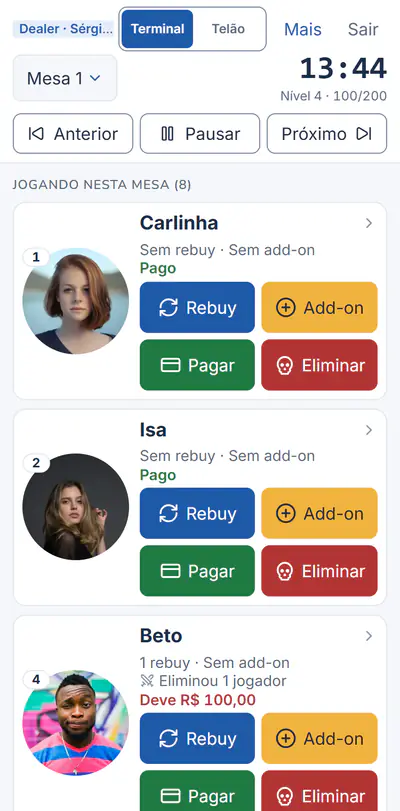
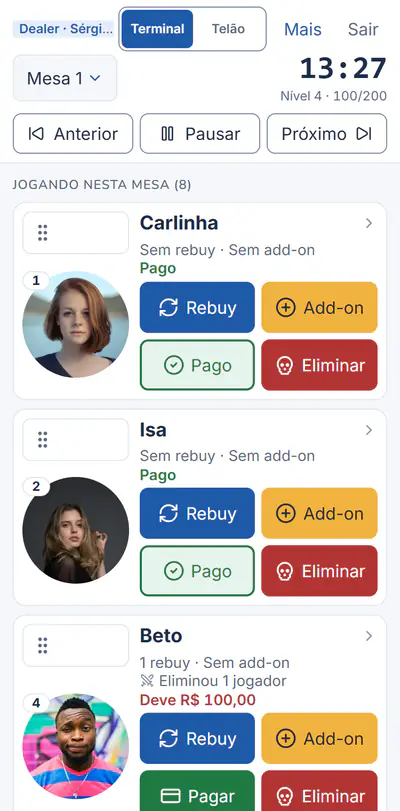
Manual: arrastar pela alça, "Pago", timebanks no telão e rebuy esquecido
- Passo novo "Troque jogadores de lugar arrastando" no terminal e print
  terminal-mesa refeito (a alça acima da foto)
- Passo novo "Quem já pagou: Pago" com o print terminal-pago (como foi pago)
- Dicas de rebuy/add-on fora do período (a pergunta "Lançar mesmo assim?")
  no terminal e em Limites de rebuy e add-on
- Telão: o relógio com os timebanks ao lado do nome (print tv-telao refeito)

diff --git a/src/pages/manual/manual.content.ts b/src/pages/manual/manual.content.ts
@@ -264,7 +264,7 @@ export const MANUAL_MODULES = [
           {
             title: 'Limites de rebuy e add-on',
             text: [
-              'Em Máx. de rebuys, diga quantos rebuys cada jogador pode fazer (0 = ilimitado) e, em Rebuy até o nível, até quando vale.',
+              'Em Máx. de rebuys, diga quantos rebuys cada jogador pode fazer (0 = ilimitado) e, em Rebuy até o nível, até quando vale. Passou do nível e alguém esqueceu um rebuy? Ele ainda pode ser lançado, com uma pergunta antes (veja Rebuy, no terminal).',
               'Com Permitir add-on marcado, Max add-ons diz quantos add-ons cada jogador pode comprar: 0 = ilimitado e o padrão é 1. O torneio herda esses limites da estrutura.',
             ],
             image: 'estrutura-addon',
@@ -426,7 +426,16 @@ export const MANUAL_MODULES = [
             ],
             tip: 'Mesas desequilibradas? O terminal avisa e sugere quem muda (Sortear quem muda ou Escolher eu mesmo).',
             image: 'terminal-mesa',
-            imageAlt: 'Terminal do dealer no celular: Terminal e Telão no topo, relógio, controles do nível e os cards dos jogadores da Mesa 1',
+            imageAlt: 'Terminal do dealer no celular: Terminal e Telão no topo, relógio, controles do nível e os cards dos jogadores da Mesa 1, cada um com a alça de arrastar acima da foto',
+          },
+          {
+            title: 'Troque jogadores de lugar arrastando',
+            text: [
+              'Acima da foto de cada jogador fica uma alça (os pontinhos). Ponha o dedo nela e arraste, sem precisar segurar: o card vai junto com o dedo e o jogador embaixo dele fica destacado em dourado.',
+              'Solte em cima de outro jogador da mesa e os dois trocam de lugar na hora, em todos os aparelhos. Soltou fora de um jogador? Nada muda. Tocar na alça sem arrastar não abre nada; o resto do card continua abrindo a Ficha.',
+            ],
+            tip: 'Para mudar alguém de mesa, use Mais › Mesas.',
+            feature: 'Tables',
           },
           {
             title: 'Inicie o torneio',
@@ -463,6 +472,7 @@ export const MANUAL_MODULES = [
               'Toque em Rebuy no card do jogador. A confirmação mostra a foto e o nome, para conferir que é a pessoa certa, e o valor.',
               'Confirme: o valor entra no que o jogador deve.',
             ],
+            tip: 'Esqueceu de lançar? Depois do Rebuy até o nível do torneio, ou com os rebuys encerrados no painel (Encerrar Rebuys), o terminal pergunta, por exemplo, O período de rebuy acabou no nível 6. Lançar mesmo assim? — toque em Sim, lançar e o Histórico marca o rebuy como fora do período. O máximo de rebuys de cada jogador continua valendo.',
             image: 'terminal-rebuy',
             imageAlt: 'Confirmação do rebuy com a foto redonda e o nome do jogador e o valor de R$ 50,00',
           },
@@ -472,6 +482,7 @@ export const MANUAL_MODULES = [
               'Toque em Add-on no card. A confirmação mostra a foto, quantos add-ons o jogador já comprou e o máximo do torneio (0 = sem limite, em Max add-ons).',
               'Quando cabe mais de um, escolha a quantidade com − e + antes de confirmar. Quem chegou ao máximo fica com o botão Add-on apagado.',
             ],
+            tip: 'Add-on esquecido depois do Encerrar Rebuys? A mesma pergunta aparece (Os add-ons já foram encerrados (intervalo de acerto). Lançar mesmo assim?) e o Sim, lançar lança, marcado no Histórico como fora do período.',
             image: 'terminal-addon',
             imageAlt: 'Confirmação do add-on com a foto redonda, Já comprou 0 de 2 add-ons, a quantidade 2 e Confirmar 2 add-ons por R$ 100,00',
           },
@@ -485,6 +496,17 @@ export const MANUAL_MODULES = [
             feature: 'Payments',
             image: 'terminal-pagar',
             imageAlt: 'Janela Registrar Pagamento com o jogador, os métodos Pix, Dinheiro e Misto, o valor e os destinos do PIX, o caixa primeiro',
+          },
+          {
+            title: 'Quem já pagou: Pago',
+            text: [
+              'Quando o jogador não deve mais nada, o botão Pagar do card vira Pago, em verde com contorno — dá para ver de longe quem já acertou (quem pagou a mais também fica Pago).',
+              'Toque em Pago para ver como foi pago: cada pagamento com a forma (PIX, dinheiro, misto ou abatimento), para onde foi (o caixa ou o custo e quem recebe), o valor e a hora. Errou? Estorne na própria linha. Um rebuy ou add-on novo volta o botão para Pagar.',
+            ],
+            tip: 'Precisa lançar mais um pagamento para quem já está Pago? Toque em Lançar outro pagamento, no rodapé.',
+            feature: 'Payments',
+            image: 'terminal-pago',
+            imageAlt: 'Janela Pago com a foto do jogador, Total e Pago, o aviso Não deve nada e a lista Como foi pago com PIX para um custo e dinheiro para o caixa, cada um com a hora e o estorno',
           },
           {
             title: 'QR do PIX com o valor',
@@ -512,7 +534,7 @@ export const MANUAL_MODULES = [
               'Embaixo do relógio fica a lista Quem está pensando?, com os jogadores da mesa e quantos timebanks cada um tem. Toque em quem está pensando quando quiser (já no começo, se você souber) e troque se errou.',
               'O organizador liga o timebank no cartão Timebank do torneio (ou deixa como padrão na estrutura de blinds): quantos timebanks cada jogador ganha e o tempo de ação, em segundos. Torneio sem timebank não mostra nada disso.',
             ],
-            tip: 'Quantos timebanks cada jogador ainda tem fica na Ficha dele, com −1 e +1 para tirar ou dar um (no terminal e na aba Jogadores do painel).',
+            tip: 'Quantos timebanks cada jogador ainda tem fica na Ficha dele, com −1 e +1 para tirar ou dar um (no terminal e na aba Jogadores do painel), e no telão da TV, com um relógio ao lado do nome.',
             image: 'terminal-timebank',
             imageAlt: 'Cronômetro em tela cheia com Tempo de ação · 30 s no topo, os segundos andando, a barra azul, o total, a lista Quem está pensando? com um jogador marcado e o botão Encerrar',
           },
@@ -812,12 +834,12 @@ export const MANUAL_MODULES = [
           {
             title: 'A TV troca sozinha',
             text: [
-              'O telão mostra o relógio, os blinds e o próximo nível, os jogadores por mesa com quem já pagou, o PIX do dia com QR e a premiação.',
+              'O telão mostra o relógio, os blinds e o próximo nível, os jogadores por mesa com quem já pagou, o PIX do dia com QR e a premiação. Com timebank no torneio, cada jogador tem ao lado do nome um relógio com quantos timebanks ainda tem.',
               'Pressione F (ou use o modo tela cheia da TV) para ocupar a tela inteira.',
             ],
             tip: 'No Mesa, o telão mostra o relógio, os jogadores e os eliminados.',
             image: 'tv-telao',
-            imageAlt: 'Telão do torneio na TV: relógio grande, blinds, jogadores por mesa, PIX com QR, premiação e o botão Ativar som no alto',
+            imageAlt: 'Telão do torneio na TV: relógio grande, blinds, jogadores por mesa com o relógio e os timebanks de cada um, PIX com QR, premiação e o botão Ativar som no alto',
           },
           {
             title: 'Som quando o nível muda',

diff --git a/src/pages/manual/manualImages.ts b/src/pages/manual/manualImages.ts
@@ -113,6 +113,8 @@ import imgTerminalPagar400 from '../../assets/manual/terminal-pagar-400.webp'
 import imgTerminalPagar750 from '../../assets/manual/terminal-pagar-750.webp'
 import imgTerminalPagarQr400 from '../../assets/manual/terminal-pagar-qr-400.webp'
 import imgTerminalPagarQr750 from '../../assets/manual/terminal-pagar-qr-750.webp'
+import imgTerminalPago400 from '../../assets/manual/terminal-pago-400.webp'
+import imgTerminalPago750 from '../../assets/manual/terminal-pago-750.webp'
 import imgTerminalRebuy400 from '../../assets/manual/terminal-rebuy-400.webp'
 import imgTerminalRebuy750 from '../../assets/manual/terminal-rebuy-750.webp'
 import imgTerminalSom400 from '../../assets/manual/terminal-som-400.webp'
@@ -576,6 +578,14 @@ export const MANUAL_IMAGES = {
     src: imgTerminalPagarQr400,
     full: imgTerminalPagarQr750,
     srcSet: `${imgTerminalPagarQr400} 400w, ${imgTerminalPagarQr750} 750w`,
+    width: 750,
+    height: 1520,
+    kind: 'phone',
+  },
+  'terminal-pago': {
+    src: imgTerminalPago400,
+    full: imgTerminalPago750,
+    srcSet: `${imgTerminalPago400} 400w, ${imgTerminalPago750} 750w`,
     width: 750,
     height: 1520,
     kind: 'phone',
